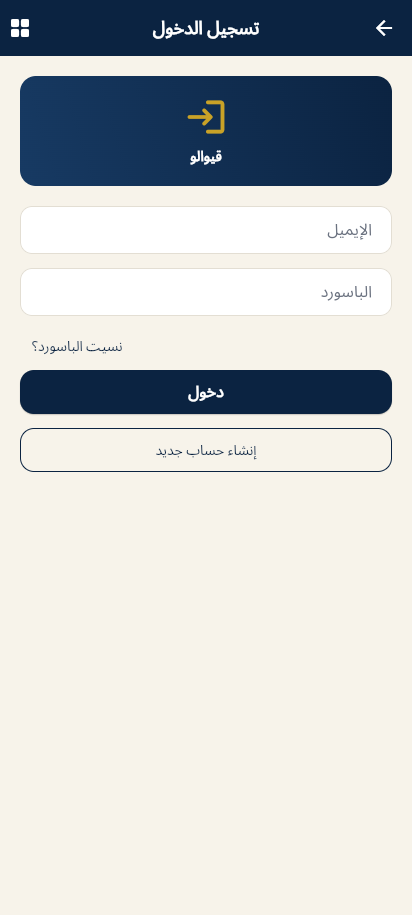
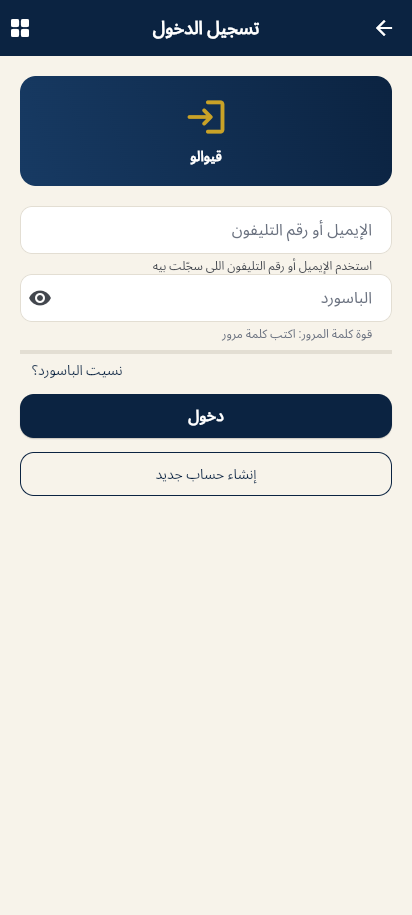
feat(mobile): accept email or phone on login with password visibility

diff --git a/lib/screens/auth.dart b/lib/screens/auth.dart
@@ -253,11 +253,64 @@ class _WelcomeBackdropPainter extends CustomPainter {
       oldDelegate.value != value;
 }
 
-class LoginScreen extends StatelessWidget {
+int passwordStrengthScore(String value) {
+  if (value.isEmpty) return 0;
+  var score = 0;
+  if (value.length >= 8) score++;
+  if (value.length >= 12) score++;
+  if (value.contains(RegExp(r'[A-Za-z]'))) score++;
+  if (value.contains(RegExp(r'[0-9]'))) score++;
+  if (value.contains(RegExp(r'[^A-Za-z0-9]'))) score++;
+  return score > 4 ? 4 : score;
+}
+
+String passwordStrengthLabel(String value) => switch (passwordStrengthScore(value)) {
+      0 => 'اكتب كلمة مرور',
+      1 => 'ضعيفة',
+      2 => 'متوسطة',
+      3 => 'جيدة',
+      _ => 'قوية',
+    };
+
+Color passwordStrengthColor(String value) => switch (passwordStrengthScore(value)) {
+      0 => muted,
+      1 => dangerRed,
+      2 => Colors.orange,
+      3 => gold,
+      _ => successGreen,
+    };
+
+class LoginScreen extends StatefulWidget {
   const LoginScreen({super.key});
 
   @override
+  State<LoginScreen> createState() => _LoginScreenState();
+}
+
+class _LoginScreenState extends State<LoginScreen> {
+  final TextEditingController _identifierController = TextEditingController();
+  final TextEditingController _passwordController = TextEditingController();
+  bool _obscurePassword = true;
+
+  @override
+  void dispose() {
+    _identifierController.dispose();
+    _passwordController.dispose();
+    super.dispose();
+  }
+
+  String get _identifierHelper {
+    final value = _identifierController.text.trim();
+    if (value.isEmpty) {
+      return 'استخدم الإيميل أو رقم التليفون اللي سجّلت بيه';
+    }
+    if (value.contains('@')) return 'تم التعرف على إيميل';
+    return 'تم التعرف على رقم تليفون';
+  }
+
+  @override
   Widget build(BuildContext context) {
+    final password = _passwordController.text;
     return AppShell(
       title: 'تسجيل الدخول',
       body: ListView(
@@ -265,8 +318,41 @@ class LoginScreen extends StatelessWidget {
         children: [
           const PlaceholderImage(label: 'قيوالو', icon: Icons.login_rounded, height: 110),
           const SizedBox(height: 20),
-          const QField(label: 'الإيميل', hint: 'name@example.com', keyboard: TextInputType.emailAddress),
-          const QField(label: 'الباسورد', hint: '••••••••', obscure: true),
+          TextField(
+            controller: _identifierController,
+            keyboardType: TextInputType.emailAddress,
+            textAlign: TextAlign.right,
+            onChanged: (_) => setState(() {}),
+            decoration: InputDecoration(
+              labelText: 'الإيميل أو رقم التليفون',
+              hintText: 'name@example.com أو 01xxxxxxxxx',
+              helperText: _identifierHelper,
+            ),
+          ),
+          TextField(
+            controller: _passwordController,
+            obscureText: _obscurePassword,
+            textAlign: TextAlign.right,
+            onChanged: (_) => setState(() {}),
+            decoration: InputDecoration(
+              labelText: 'الباسورد',
+              hintText: '••••••••',
+              helperText: 'قوة كلمة المرور: ${passwordStrengthLabel(password)}',
+              helperStyle: TextStyle(color: passwordStrengthColor(password)),
+              suffixIcon: IconButton(
+                icon: Icon(_obscurePassword ? Icons.visibility : Icons.visibility_off),
+                tooltip: _obscurePassword ? 'إظهار كلمة المرور' : 'إخفاء كلمة المرور',
+                onPressed: () => setState(() => _obscurePassword = !_obscurePassword),
+              ),
+            ),
+          ),
+          const SizedBox(height: 8),
+          LinearProgressIndicator(
+            value: passwordStrengthScore(password) / 4,
+            backgroundColor: line,
+            color: passwordStrengthColor(password),
+            minHeight: 4,
+          ),
           Align(
             alignment: Alignment.centerLeft,
             child: TextButton(
@@ -349,33 +435,11 @@ class _SignupScreenState extends State<SignupScreen> {
     super.dispose();
   }
 
-  int get _passwordScore {
-    final value = _passwordController.text;
-    if (value.isEmpty) return 0;
-    var score = 0;
-    if (value.length >= 8) score++;
-    if (value.length >= 12) score++;
-    if (value.contains(RegExp(r'[A-Za-z]'))) score++;
-    if (value.contains(RegExp(r'[0-9]'))) score++;
-    if (value.contains(RegExp(r'[^A-Za-z0-9]'))) score++;
-    return score > 4 ? 4 : score;
-  }
+  int get _passwordScore => passwordStrengthScore(_passwordController.text);
 
-  String get _passwordLabel => switch (_passwordScore) {
-        0 => 'اكتب كلمة مرور',
-        1 => 'ضعيفة',
-        2 => 'متوسطة',
-        3 => 'جيدة',
-        _ => 'قوية',
-      };
+  String get _passwordLabel => passwordStrengthLabel(_passwordController.text);
 
-  Color get _passwordColor => switch (_passwordScore) {
-        0 => muted,
-        1 => dangerRed,
-        2 => Colors.orange,
-        3 => gold,
-        _ => successGreen,
-      };
+  Color get _passwordColor => passwordStrengthColor(_passwordController.text);
 
   void _showTerms() {
     showModalBottomSheet<void>(

diff --git a/test/widget_test.dart b/test/widget_test.dart
@@ -136,6 +136,39 @@ void main() {
     expect(find.text('إنشاء حساب'), findsWidgets);
   });
 
+  testWidgets('تسجيل الدخول يقبل الإيميل أو التليفون والباسورد إظهار وقوة', (tester) async {
+    await tester.binding.setSurfaceSize(const Size(412, 1400));
+    addTearDown(() => tester.binding.setSurfaceSize(null));
+    await tester.pumpWidget(const MaterialApp(home: LoginScreen()));
+
+    expect(find.text('الإيميل أو رقم التليفون'), findsOneWidget);
+    expect(find.text('استخدم الإيميل أو رقم التليفون اللي سجّلت بيه'), findsOneWidget);
+
+    final identifier = find.ancestor(
+      of: find.text('الإيميل أو رقم التليفون'),
+      matching: find.byType(TextField),
+    ).first;
+    await tester.enterText(identifier, 'owner@qiwalo.test');
+    await tester.pump();
+    expect(find.text('تم التعرف على إيميل'), findsOneWidget);
+
+    await tester.enterText(identifier, '01066094050');
+    await tester.pump();
+    expect(find.text('تم التعرف على رقم تليفون'), findsOneWidget);
+
+    final passwordField = find.ancestor(
+      of: find.text('الباسورد'),
+      matching: find.byType(TextField),
+    ).first;
+    await tester.enterText(passwordField, 'Qiwalo123!');
+    await tester.pump();
+    expect(find.textContaining('قوة كلمة المرور: قوية'), findsOneWidget);
+
+    await tester.tap(find.byIcon(Icons.visibility));
+    await tester.pump();
+    expect(find.byIcon(Icons.visibility_off), findsOneWidget);
+  });
+
   testWidgets('الاتجاه RTL مفروض على كل التطبيق', (tester) async {
     await tester.pumpWidget(const QiwaloApp());
     final direction = Directionality.of(tester.element(find.text('قيوالو')));

diff --git a/docs/DESIGN-REVIEW.md b/docs/DESIGN-REVIEW.md
@@ -17,6 +17,7 @@
 - إرشادات التحميل والتثبيت: `docs/INSTALL-ANDROID.md`.
 - أول شاشة عند الفتح على أندرويد هي **شاشة الترحيب**، بخلفية متحركة خفيفة: توهّج ذهبي/أزرق، جزيئات صاعدة، وموجتان بيتحركوا ببطء (دوره ١٤ ثانية) عشان التطبيق يبان حيّ. المميزات التلاتة قابلة للضغط: «ابحث» و«خطّط» للرئيسية، و«تواصل» يفتح صفحة `/contact` للتواصل الداخلي. ومن رابط «معاينة كل الشاشات» تقدر تفتح فهرس المراجعة وأي شاشة منه. بناء الويب (أداة اللقطات فقط) يبدأ بفهرس المراجعة.
 - إنشاء الحساب: كود الدولة بيتختار تلقائياً من منطقة جهاز الزائر (مع fallback `+20`) وقابل للتغيير، تلميح تحت الاسم الكامل، مؤشر قوة الباسورد + زر إظهار/إخفاء، والشروط والأحكام بتفتح `bottom sheet` داخل نفس الشاشة من غير تغيير route.
+- تسجيل الدخول: خانة واحدة للإيميل أو رقم التليفون المسجّل، والباسورد فيه إظهار/إخفاء + مؤشر قوة. **دخول الضيف معاينة واجهة فقط**؛ الدخول الحقيقي بالـ BFF موجود ل المالك/السائق في `/role-login`.
 - لو حابب تبنيه بنفسك: `flutter build apk --debug` (تم ضبط `flutter config --jdk-dir` على JDK 23 لأن الـ JBR المثبّت 25 غير مدعوم من Gradle).
 
 ## تفاصيل الوحدة (أول بند تنفيذ فعلي)
@@ -82,10 +83,10 @@
 
 ## تحقق تقني
 - `flutter analyze` ✅ بلا ملاحظات.
-- `flutter test` ✅ ١٤ اختباراً (٨ لمعاينة التصميم والترحيب والتواصل وإنشاء الحساب وتفاصيل الوحدة وشاشات المالك/السائق، ٣ لحجز Mock: التسعير من BFF وظهور رسالة الرفض والبحث برقم المرجع، و٣ لدخول الأدوار وقراءة بيانات المالك/السائق بالتوكن).
+- `flutter test` ✅ ١٥ اختباراً (٩ لمعاينة التصميم والترحيب والتواصل وإنشاء الحساب وتسجيل الدخول وتفاصيل الوحدة وشاشات المالك/السائق، ٣ لحجز Mock: التسعير من BFF وظهور رسالة الرفض والبحث برقم المرجع، و٣ لدخول الأدوار وقراءة بيانات المالك/السائق بالتوكن).
 - `flutter build web --release --dart-define=USE_MOCK=true` ✅ (للقطات المراجعة فقط؛ ٢٨ لقطة Pixel 7).
 - `flutter build apk --debug` ✅ وتم فحص الـ APK: يحتوي `libflutter.so` و`flutter_assets` (عكس APK القديم).
-- `aapt dump badging` ✅: `package='com.qiwalo.app'` و`application-label='قيوالو'` و`versionName='1.2.4'` / `versionCode='7'` وأيقونة adaptive من `@mipmap/ic_launcher`.
+- `aapt dump badging` ✅: `package='com.qiwalo.app'` و`application-label='قيوالو'` و`versionName='1.2.5'` / `versionCode='8'` وأيقونة adaptive من `@mipmap/ic_launcher`.
 - تثبيت فعلي على جهاز `SM_A075F` عبر `adb install -r` ✅، والتطبيق افتح من غير كراش خاص به.
 
 ## متعمّد تأجيله

diff --git a/README.md b/README.md
@@ -59,8 +59,10 @@ Copy-Item build\app\outputs\flutter-apk\app-debug.apk releases\qiwalo.apk -Force
 
 ## الإصدارات
 
-كل تحديث بياخد GitHub Release لوحده في هذا المستودع، مع APK ولقطات Pixel 7. أحدث إصدار: `mobile-v1.2.4`.
+كل تحديث بياخد GitHub Release لوحده في هذا المستودع، مع APK ولقطات Pixel 7. أحدث إصدار: `mobile-v1.2.5`.
 
 أول ما يفتح التطبيق على أندرويد تظهر **شاشة الترحيب** بخلفية متحركة (توهّج ذهبي، جزيئات صاعدة، وموجتان بيتحركوا ببطء). المميزات التلاتة بقت قابلة للضغط: «ابحث» و«خطّط» للرئيسية، و**«تواصل»** يفتح صفحة تواصل داخلية فيها واتساب/تليجرام/تليفون وصندوق رسالة جاهز للإرسال. ومن شاشة الترحيب رابط «معاينة كل الشاشات» لفهرس المراجعة. بناء الويب بيبدأ بفهرس المراجعة لأنه أداة توليد اللقطات فقط.
 
 شاشة إنشاء الحساب: كود الدولة بيتحدد من منطقة جهاز الزائر (مع إمكانية تغييره)، تلميح واضح تحت الاسم الكامل، مؤشر قوة الباسورد وزر إظهار/إخفاء، والشروط والأحكام بتفتح داخل الشاشة من غير خروج منها.
+
+شاشة تسجيل الدخول: خانة واحدة تقبل الإيميل أو رقم التليفون اللي اتسجّل بيه، والباسورد فيه إظهار/إخفاء ومؤشر قوة. دخول الضيف لسه معاينة واجهة لأن BFF تسجيل دخول الضيف مش مطبّق لسه؛ دخول المالك/السائق الحقيقي موجود في `/role-login`.

diff --git a/docs/RELEASE-WORKFLOW.md b/docs/RELEASE-WORKFLOW.md
@@ -30,5 +30,6 @@
 | `mobile-v1.2.2` | خلفية متحركة لشاشة الترحيب: توهّج ذهبي/أزرق، جزيئات صاعدة، وموجتان متحركتان؛ من غير حزم إضافية أو تأثير على البيانات. |
 | `mobile-v1.2.3` | مميزات شاشة الترحيب بقت قابلة للضغط، و«تواصل» بيفتح صفحة تواصل داخلية (واتساب/تليجرام/تليفون + رسالة جاهزة للإرسال). أضفنا `/contact` كشاشة ٢٥ و٢٨ لقطة Pixel 7، و١٣ اختباراً. |
 | `mobile-v1.2.4` | تحسينات إنشاء الحساب: كود دولة تلقائي من منطقة الجهاز + قائمة دول، تلميح للاسم الكامل، مؤشر قوة الباسورد مع إظهار/إخفاء، والشروط والأحكام بتفتح داخل الشاشة عبر bottom sheet. ١٤ اختباراً. |
+| `mobile-v1.2.5` | تسجيل الدخول بقى يقبل الإيميل أو رقم التليفون المسجّل، مع إظهار/إخفاء ومؤشر قوة للباسورد (نفس منطق الإنشاء). ١٥ اختباراً. دخول الضيف لسه واجهة معاينة لحين عمل BFF خاص به. |
 
 > التوقيع Release وإشعارات Push لسه مؤجّلة لطلب صريح. شاشات المالك/السائق مرتبطة بـ BFF الأدوار، لكن قبول/رفض طلبات الحجز لسه للقراءة فقط لأن الحجوزات بتتأكد تلقائياً. الـ APK الحالي debug وموقّع بالتطوير؛ يمكن تثبيته مباشرة على أندرويد ويُوزّع عبر رابط الـ Release.
